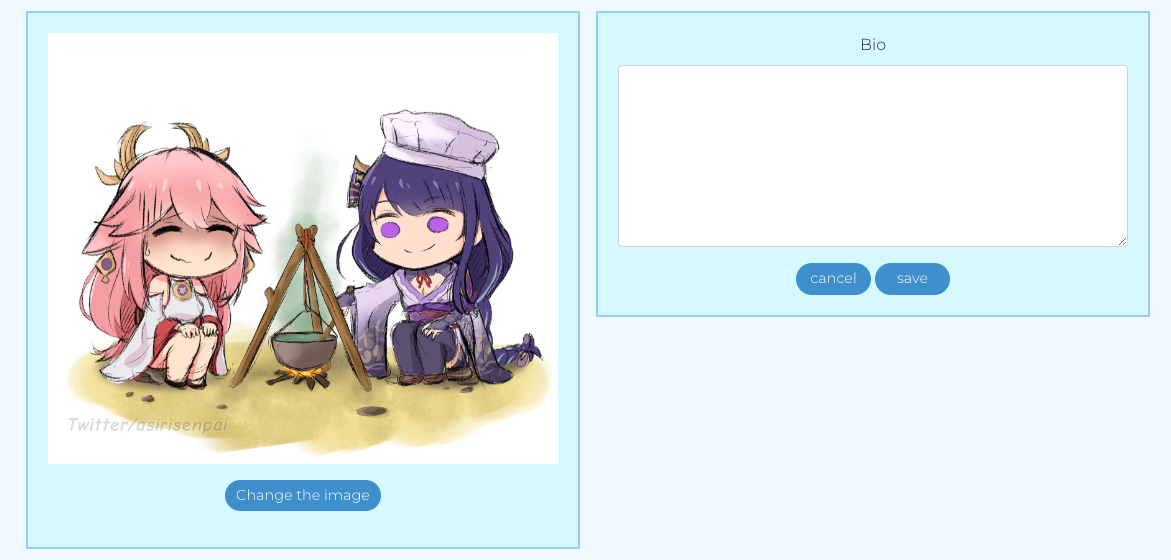
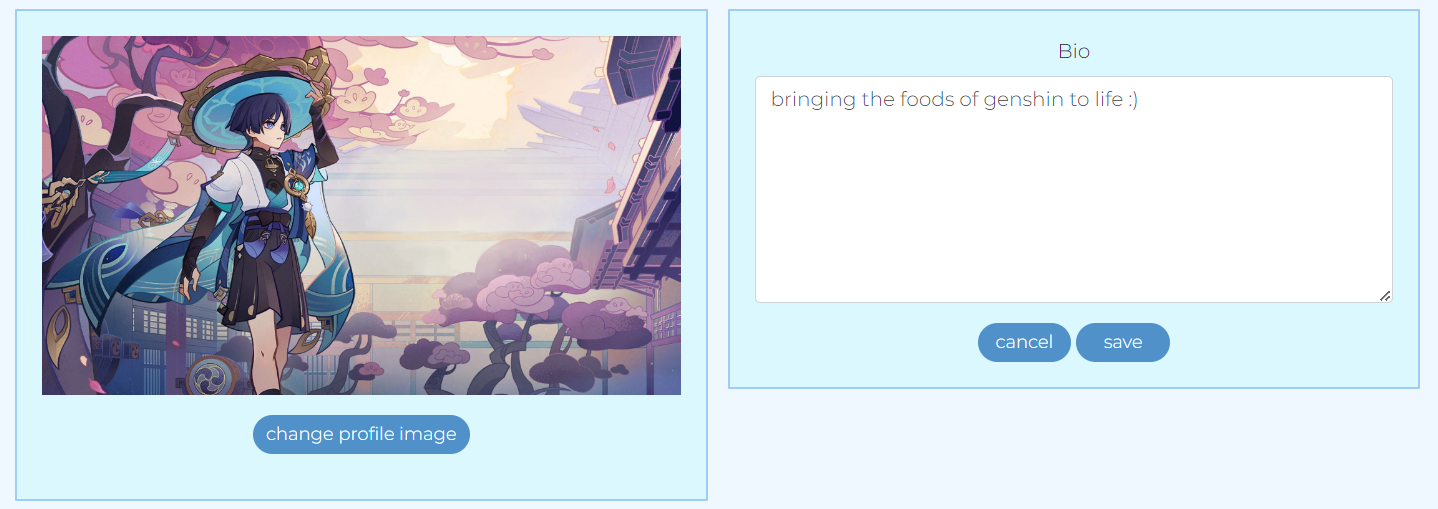
ReadMe

diff --git a/README.md b/README.md
@@ -33,8 +33,10 @@ Repository for [API](https://github.com/charlie-vf/genshin-recipes-blog-api)
 
 This Recipes Blog was created for my fifth project in Code Institute's Full Stack Software Development Course.
 The objective of this site was to provide players of miHoYo's Genshin Impact with a place to share recipes inspired by those you can craft in-game within a community atmosphere.
-<p>
+
 Although aimed at the game's player base, it is largely a Japanese/Chinese inspired recipes blog which is suitable for anybody who is looking for inspiration in these areas.
+
+This project uses a combination of HTML, CSS, JavaScript, React.js, Bootstrap.js & Django REST framework.
 
 ## **UX**
 
@@ -122,6 +124,7 @@ Second, adding a search bar to the pages to allow users to search by creator or 
 
 - As a user, I can search recipes by specific keywords/users so that I can easily find what I am looking for
     - searchbar implemented with a timer to prevent fetch requests being sent after each keystroke
+    - the searchbar allows users to search by username and content keywords
 
 - As a user, I can view the most followed users so I can easily navigate to their profile -- this was changed to be the most liked recipes as it felt more relevant to the content of the website as liking recipes would likely be more frequent than following users
     - popular recipes component provides access to the community's favourite recipes & displays the number of likes
@@ -132,10 +135,12 @@ The final main sprint was user profiles, including editing functionality for the
 - As a user, I can view others' profiles so that I can see their posts, liked content and more
     - a user can navigate to other users' profiles and see recipes
 - As a user, I can view a user's  likes & following/followed counts on their profiles so that I can easily browse their content and find new content
-    - not fully implemented - see Future Features
+    - users can view another user's following & followed counts
+    - other functionality not fully implemented - see Future Features
 - As a user, I can follow/unfollow other users so that I can easily find my favourite creators and narrow results by them
     - follow/unfollow button available on user profiles
     - auto-updates user stats
+    - users can navigate to the Following page to narrow results by creators they are following
 - As a logged-in user, I can edit my profile so that I can update my public details
     - burger icon on user's profile allows editing of bio
 - As a user, I can edit my username & password so that I can keep them relevant and secure
@@ -158,7 +163,7 @@ The following diagram details how the site's main pages all link together for lo
 
 ## **Skeleton**
 
-All main pages follow the same general layout, bar the Create Recipe page. The layout is simple so all content is easily viewable for all users.
+All main pages follow the same general layout. The layout is simple so all content is easily viewable for all users.
 
 Home, Following, Favourites, Made & Profile (for profile, recipes display is changed to profile content)
 
@@ -268,7 +273,11 @@ Error messages
 
 Error messages are displayed if user input is invalid, for example:
 
+Attempting to submit with empty fields:
+
 ![Sign Up Blank Fields](src/docs/SignUpBlank.png)
+
+Attempting to submit with insufficient password length:
 
 ![Sign Up Password Short](src/docs/SignUpShort.png)
 
@@ -278,7 +287,7 @@ Available on the user's profile when logged-in via a burger icon. Users can edit
 
 ![Edit Profile Burger](src/docs/ProfileBurger.png)
 
-Edit Profile Page
+Edit Profile Page - prefilled with current bio (if applicable) and profile image
 
 ![Edit Profile Page](src/docs/EditProfile.png)
 
@@ -508,9 +517,6 @@ Heroku Deployment Steps:
 - [Google Fonts](https://fonts.google.com/) for Montserrat font
 - [FontAwesome](https://fontawesome.com/) for icons
 - [LucidChart](https://lucid.app/) for Wireframes sketches
-
-- Slack for troubleshooting help
-- Stack Overflow for further troubleshooting help
 
 - Code Institute Walkthrough project for helping understand how everything works
 - Slack for troubleshooting help
